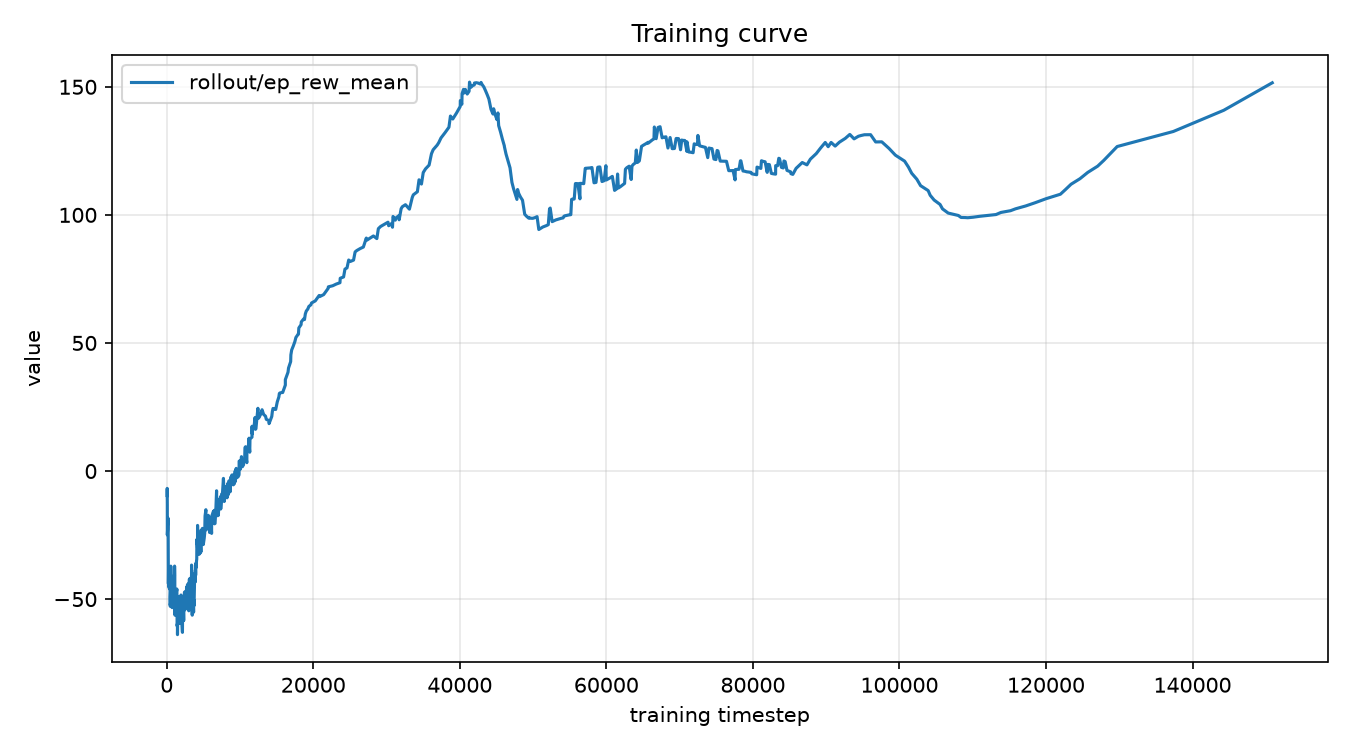
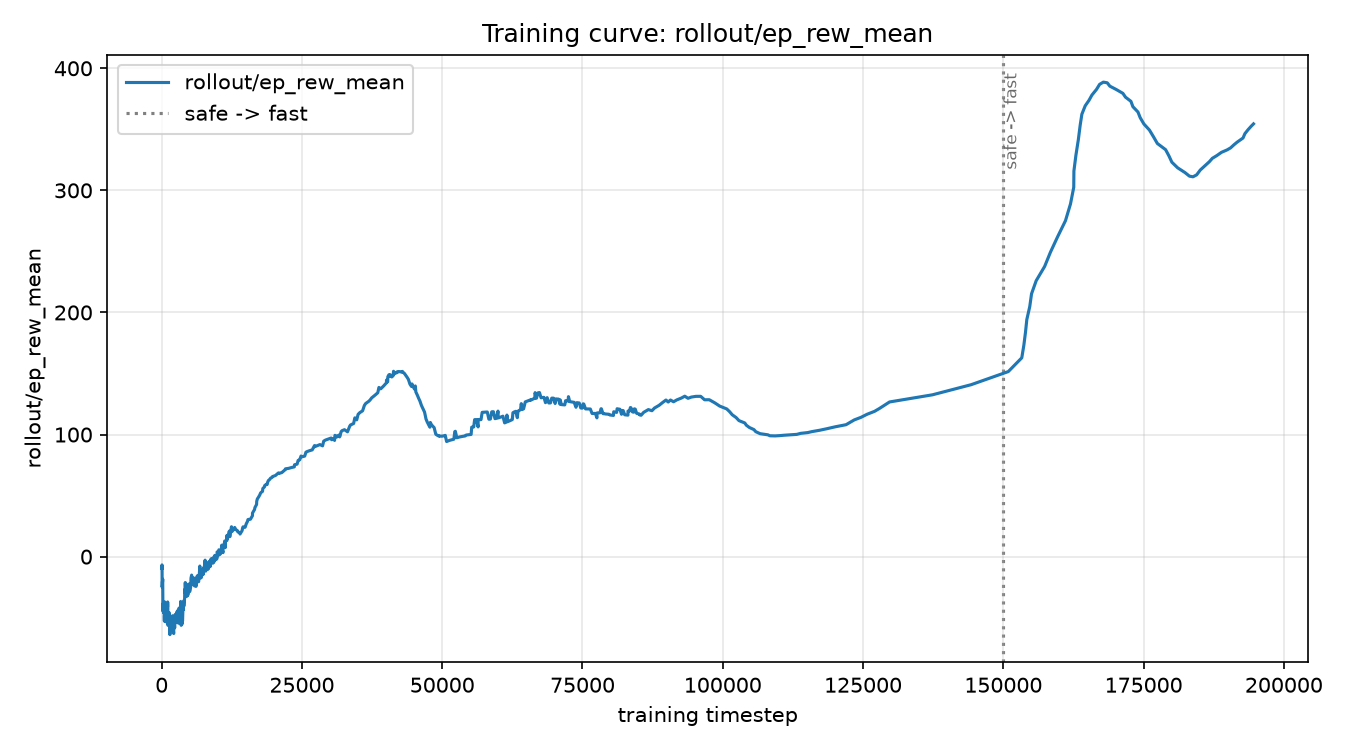
updated for Part C

diff --git a/scripts/plot_learning_curve.py b/scripts/plot_learning_curve.py
@@ -10,6 +10,14 @@ Usage:
     # smooth a noisy curve with a rolling average over 20 data points:
     python -m scripts.plot_learning_curve --logdir runs/sac_vae --smooth 20
 
+    # mark where a curriculum phase changed with a dotted vertical line + label:
+    python -m scripts.plot_learning_curve --logdir runs/sac_vae --smooth 20 \
+        --vline 150000 --vline-label "safe -> fast"
+
+    # several markers at once (labels are matched to --vline by position):
+    python -m scripts.plot_learning_curve --logdir runs/sac_vae \
+        --vline 150000 300000 --vline-label "safe -> fast" "waveshare switch"
+
     # see every tag that's actually been logged, if you're not sure what to plot:
     python -m scripts.plot_learning_curve --logdir runs/sac_vae --list-tags
 
@@ -91,7 +99,17 @@ def main():
                          help="rolling-average window in data points; 1 = no smoothing")
     parser.add_argument("--list-tags", action="store_true",
                          help="print every scalar tag found under --logdir and exit, instead of plotting")
+    parser.add_argument("--vline", type=float, nargs="+", default=[],
+                         help="training timestep(s) to mark with a vertical dotted line, e.g. "
+                              "where a curriculum phase (safe -> fast) or a config change happened")
+    parser.add_argument("--vline-label", nargs="+", default=[],
+                         help="label(s) for --vline, matched by position; fine to give fewer "
+                              "labels than --vline values, the rest are left unlabeled")
     args = parser.parse_args()
+
+    if len(args.vline_label) > len(args.vline):
+        raise SystemExit("--vline-label has more entries than --vline -- give one label per "
+                          "line at most, matched by position")
 
     event_files = _find_event_files(args.logdir)
     if not event_files:
@@ -107,7 +125,7 @@ def main():
     os.makedirs(os.path.dirname(args.out) or ".", exist_ok=True)
 
     fig, ax = plt.subplots(figsize=(9, 5))
-    any_plotted = False
+    plotted_tags = []  # tags that actually had data -- may be fewer than args.tags requested
     for tag in args.tags:
         steps, values = _load_tag(event_files, tag)
         if not steps:
@@ -115,15 +133,28 @@ def main():
                   f"(run with --list-tags to see what IS available)")
             continue
         ax.plot(steps, _smooth(values, args.smooth), label=tag)
-        any_plotted = True
+        plotted_tags.append(tag)
 
-    if not any_plotted:
+    if not plotted_tags:
         raise SystemExit("none of the requested tags were found -- run with --list-tags to see "
                           "what's actually logged under this logdir")
 
+    for i, x in enumerate(args.vline):
+        label = args.vline_label[i] if i < len(args.vline_label) else None
+        ax.axvline(x=x, color="gray", linestyle=":", linewidth=1.5,
+                   label=label, zorder=0)
+        if label:
+            ax.text(x, 0.97, f" {label}", rotation=90, va="top", ha="left",
+                    fontsize=8, color="dimgray", transform=ax.get_xaxis_transform(),
+                    clip_on=False)
+
+    # Title (and y-axis label, when there's only one series) say which tag(s) produced this
+    # chart -- "Training curve" alone was ambiguous once you're comparing several PNGs side by
+    # side in a report and can't tell rollout/ep_rew_mean from rollout/ep_len_mean at a glance.
+    tag_summary = ", ".join(plotted_tags)
     ax.set_xlabel("training timestep")
-    ax.set_ylabel("value")
-    ax.set_title("Training curve")
+    ax.set_ylabel(plotted_tags[0] if len(plotted_tags) == 1 else "value")
+    ax.set_title(f"Training curve: {tag_summary}")
     ax.legend()
     ax.grid(alpha=0.3)
     fig.tight_layout()

diff --git a/vae/model.py b/vae/model.py
@@ -17,13 +17,13 @@ class Encoder(nn.Module):
     def __init__(self, latent_dim: int = 32, in_channels: int = 3):
         super().__init__()
         self.conv = nn.Sequential(
-            nn.Conv2d(in_channels, 32, kernel_size=4, stride=2, padding=1),  # 80x160 -> 40x80
+            nn.Conv2d(in_channels, 32, kernel_size=4, stride=2, padding=1),  
             nn.ReLU(inplace=True),
-            nn.Conv2d(32, 64, kernel_size=4, stride=2, padding=1),           # 40x80 -> 20x40
+            nn.Conv2d(32, 64, kernel_size=4, stride=2, padding=1),           
             nn.ReLU(inplace=True),
-            nn.Conv2d(64, 128, kernel_size=4, stride=2, padding=1),          # 20x40 -> 10x20
+            nn.Conv2d(64, 128, kernel_size=4, stride=2, padding=1),          
             nn.ReLU(inplace=True),
-            nn.Conv2d(128, 256, kernel_size=4, stride=2, padding=1),         # 10x20 -> 5x10
+            nn.Conv2d(128, 256, kernel_size=4, stride=2, padding=1),         
             nn.ReLU(inplace=True),
         )
         self.flatten_dim = 256 * 5 * 10
@@ -41,13 +41,13 @@ class Decoder(nn.Module):
         super().__init__()
         self.fc = nn.Linear(latent_dim, 256 * 5 * 10)
         self.deconv = nn.Sequential(
-            nn.ConvTranspose2d(256, 128, kernel_size=4, stride=2, padding=1),  # 5x10 -> 10x20
+            nn.ConvTranspose2d(256, 128, kernel_size=4, stride=2, padding=1),  
             nn.ReLU(inplace=True),
-            nn.ConvTranspose2d(128, 64, kernel_size=4, stride=2, padding=1),   # 10x20 -> 20x40
+            nn.ConvTranspose2d(128, 64, kernel_size=4, stride=2, padding=1),   
             nn.ReLU(inplace=True),
-            nn.ConvTranspose2d(64, 32, kernel_size=4, stride=2, padding=1),    # 20x40 -> 40x80
+            nn.ConvTranspose2d(64, 32, kernel_size=4, stride=2, padding=1),    
             nn.ReLU(inplace=True),
-            nn.ConvTranspose2d(32, out_channels, kernel_size=4, stride=2, padding=1),  # 40x80 -> 80x160
+            nn.ConvTranspose2d(32, out_channels, kernel_size=4, stride=2, padding=1),  
             nn.Sigmoid(),
         )
 
